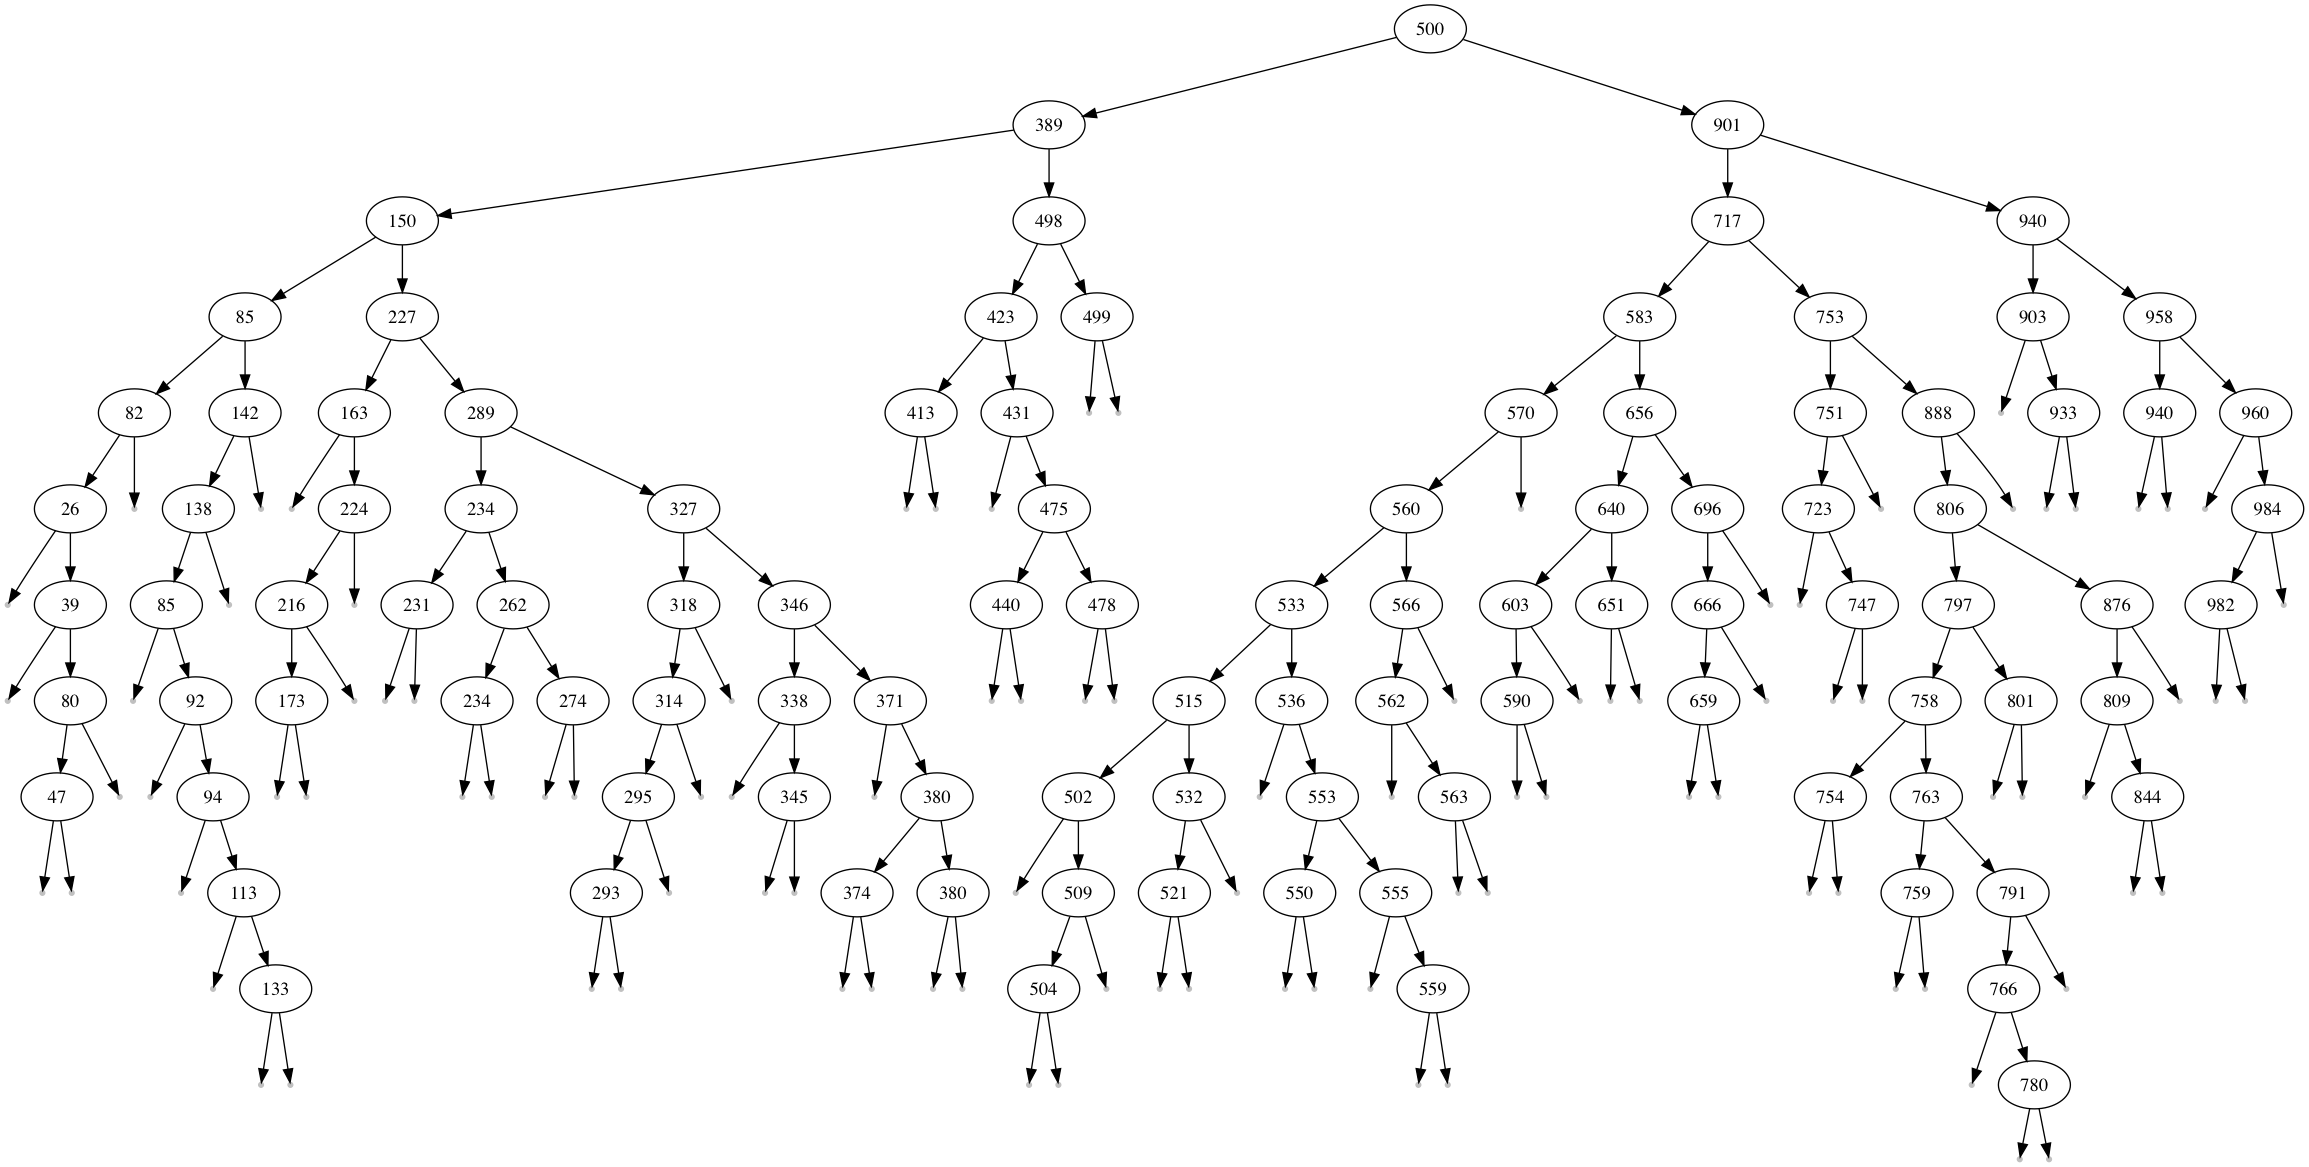
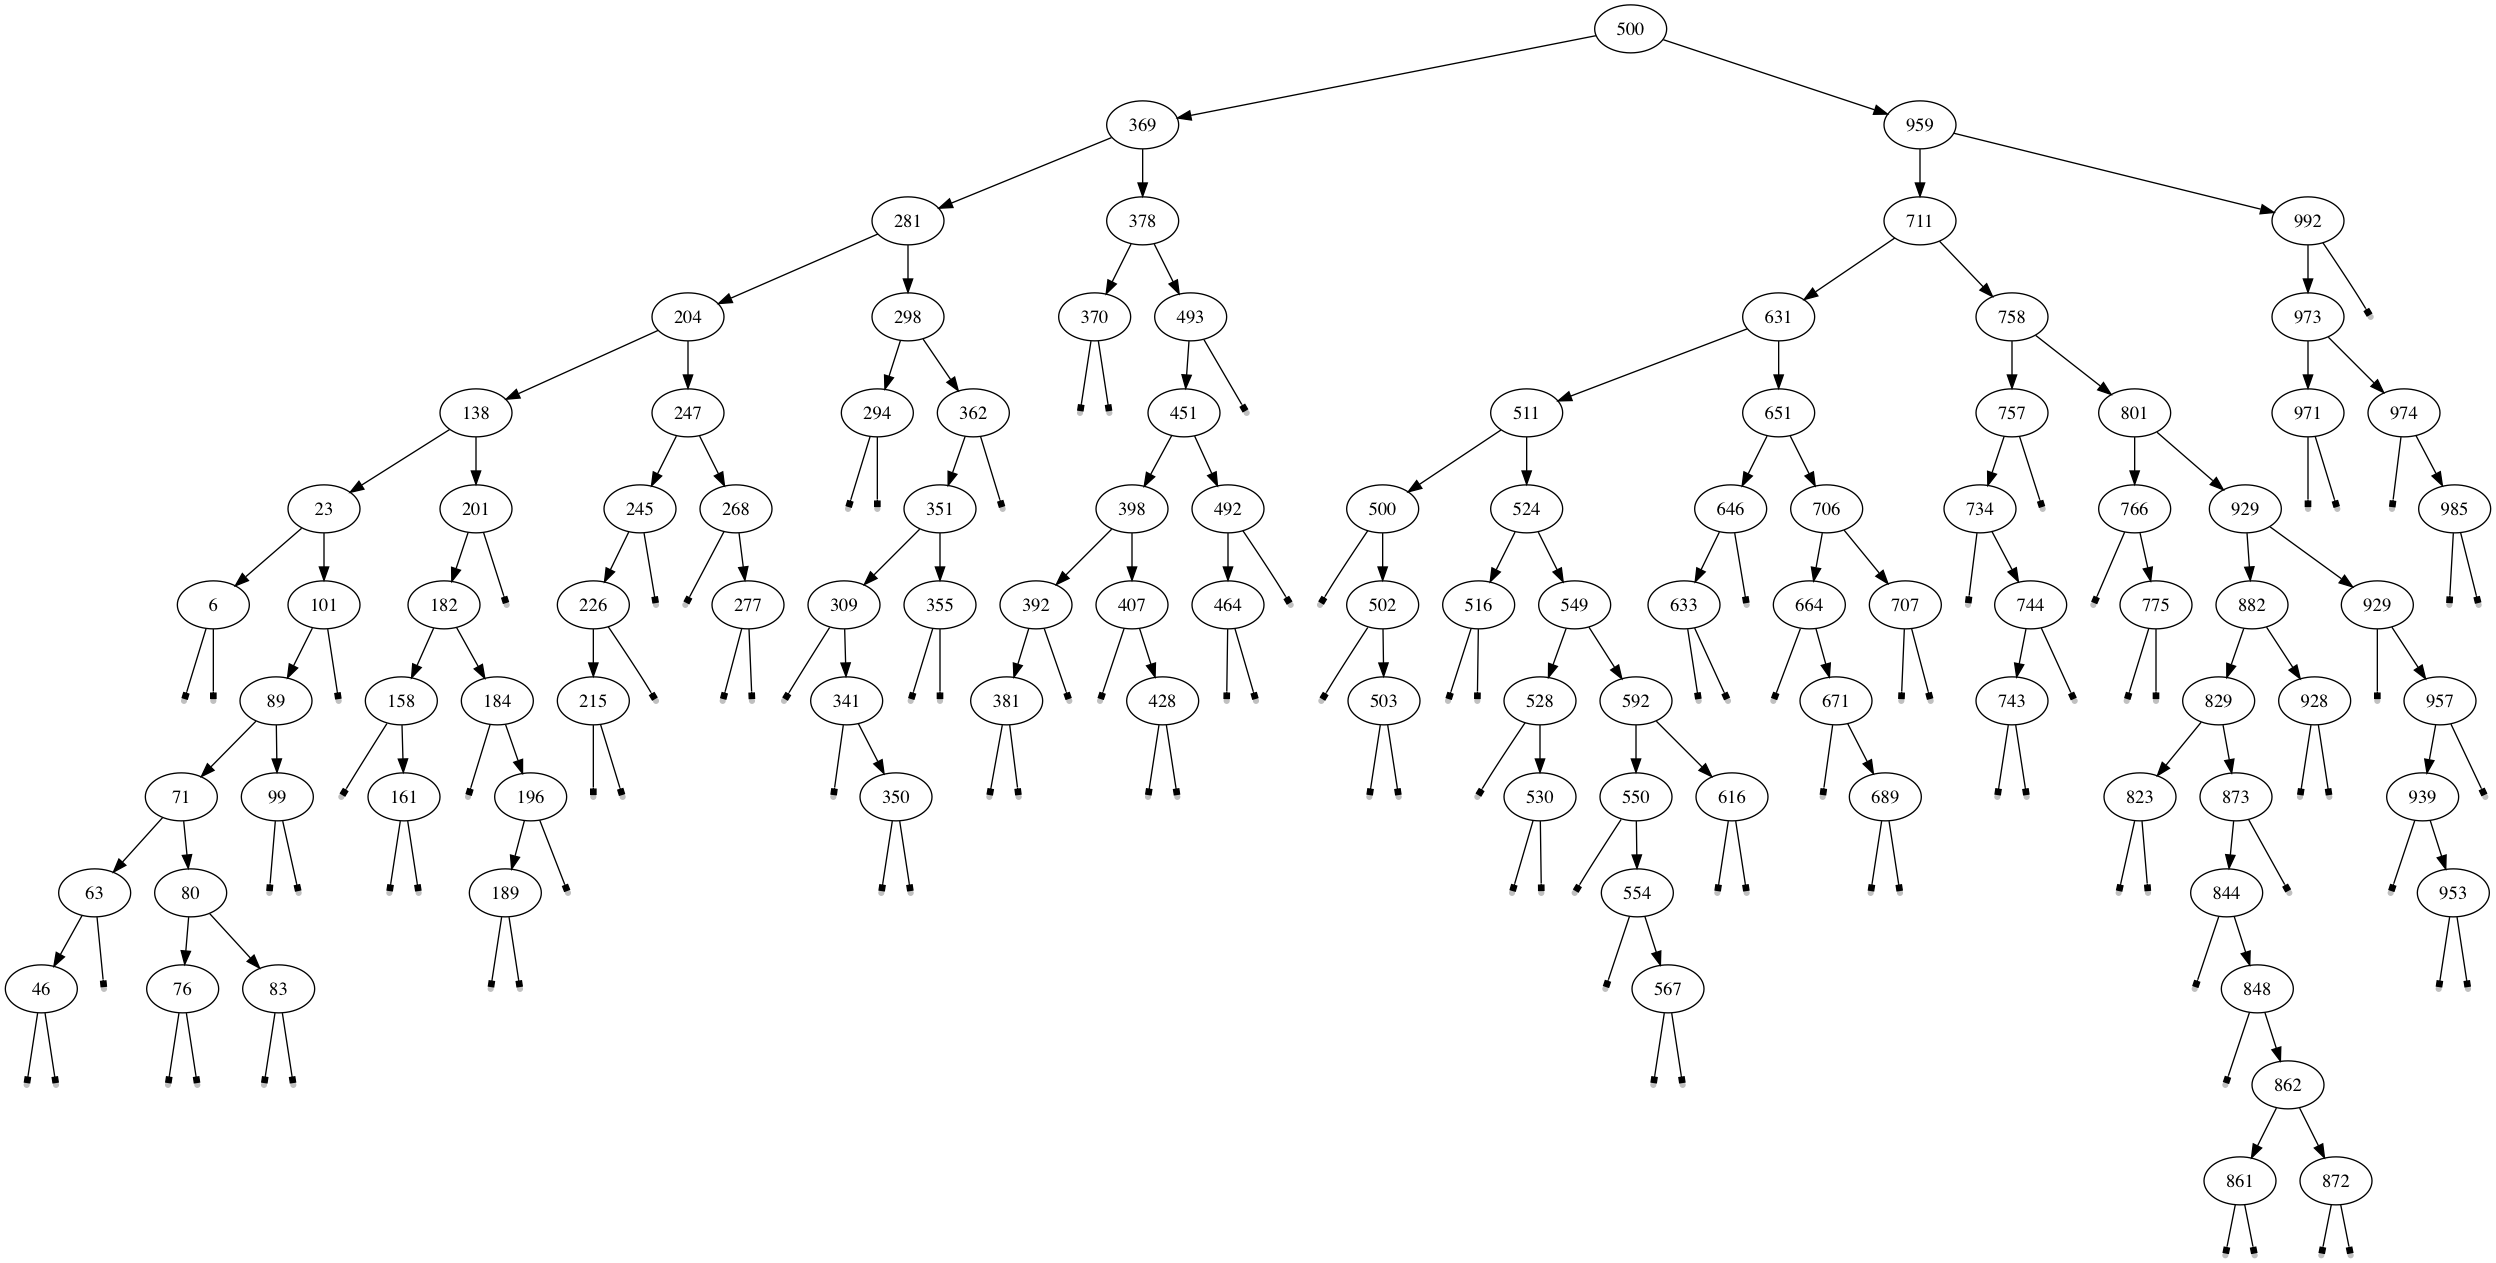
graphviz again

diff --git a/ClassLectures/day11-bst/bst.py b/ClassLectures/day11-bst/bst.py
@@ -51,7 +51,7 @@ class BST(object):
     def __build_viz(self,root,parent=None):
         if root == None and parent:
             self.viz.node(str(self.node_id),'*',shape='point',color='gray')
-            self.viz.edge(str(parent.node_id),str(self.node_id))
+            self.viz.edge(str(parent.node_id),str(self.node_id),arrowhead='box',arrowsize='.5' )
             self.node_id += 1
         if root == None:
             return
